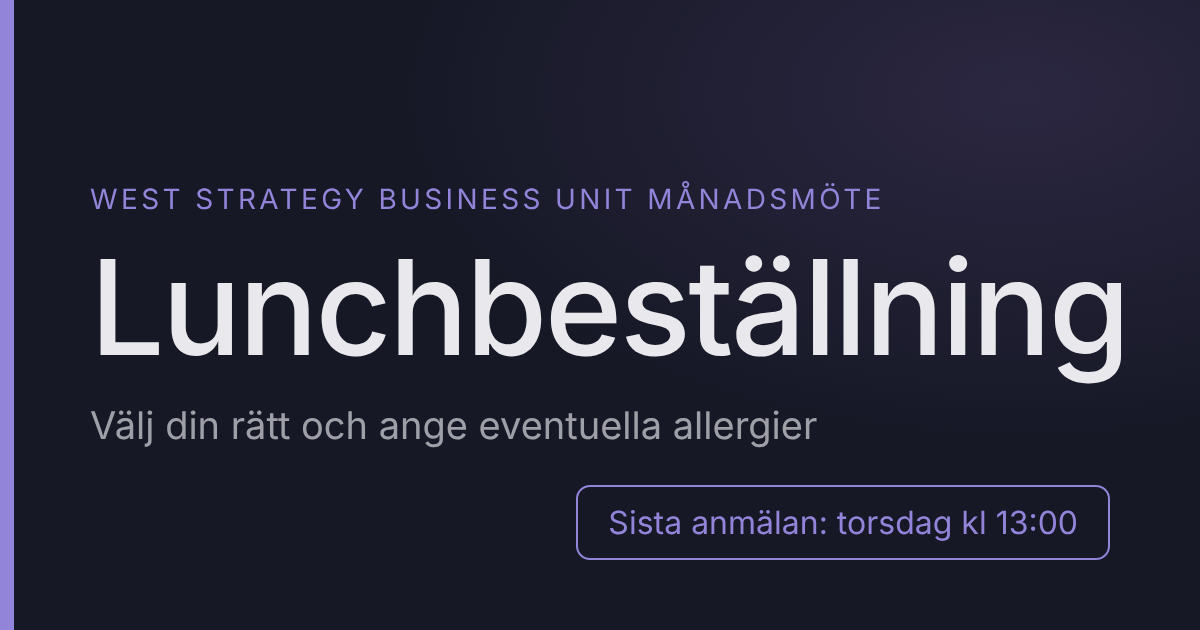
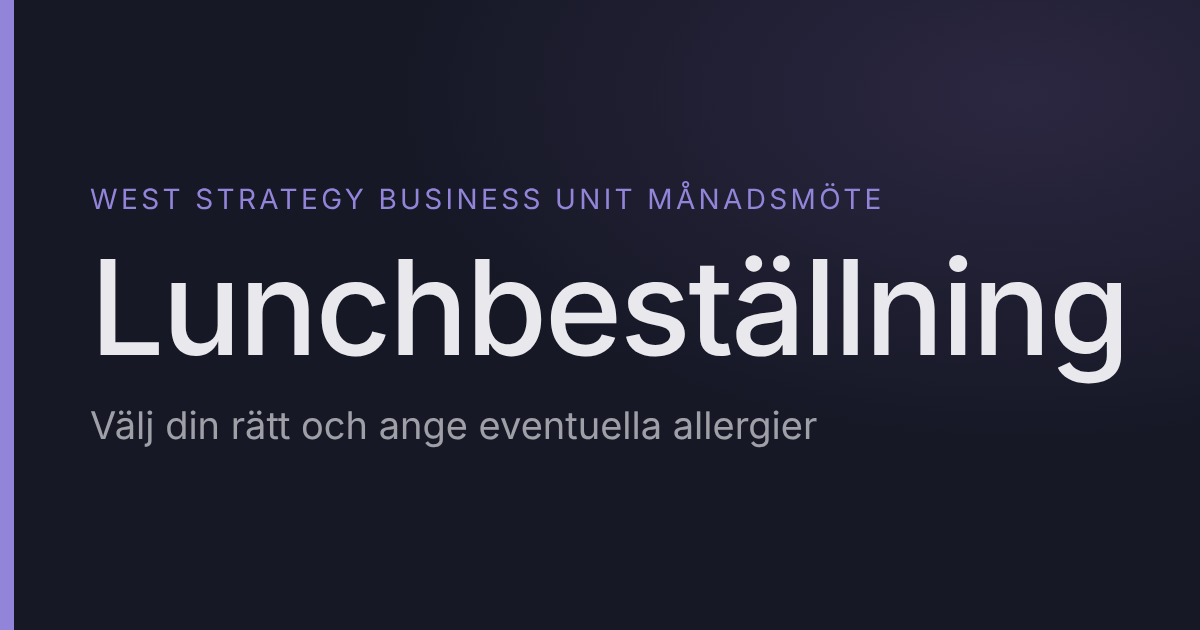
Drop the deadline from the link preview image and descriptions
Previews get cached by chat apps, so a static deadline there can go
stale; the image and descriptions no longer mention it.

Claude-Session: https://claude.ai/code/session_016CbLU2RTBJo1CC5LtsipkA

Changed region(s): [[0.4933, 0.8143, 0.925, 0.9048], [0.4933, 0.754, 0.925, 0.7841]]

diff --git a/index.html b/index.html
@@ -4,18 +4,18 @@
 <meta charset="utf-8">
 <meta name="viewport" content="width=device-width, initial-scale=1">
 <title>Lunchbeställning – West Strategy BU</title>
-<meta name="description" content="Välj din rätt och ange eventuella allergier. Sista anmälan torsdag kl 13:00.">
+<meta name="description" content="Välj din rätt och ange eventuella allergier..">
 <meta property="og:type" content="website">
 <meta property="og:site_name" content="Lunchbeställning">
 <meta property="og:title" content="Lunchbeställning – West Strategy Business Unit månadsmöte">
-<meta property="og:description" content="Välj din rätt och ange eventuella allergier. Sista anmälan torsdag kl 13:00.">
+<meta property="og:description" content="Välj din rätt och ange eventuella allergier..">
 <meta property="og:url" content="https://nexerlunchval.vercel.app/">
 <meta property="og:image" content="https://nexerlunchval.vercel.app/og-image.png">
 <meta property="og:image:width" content="1200">
 <meta property="og:image:height" content="630">
 <meta name="twitter:card" content="summary_large_image">
 <meta name="twitter:title" content="Lunchbeställning – West Strategy Business Unit månadsmöte">
-<meta name="twitter:description" content="Välj din rätt och ange eventuella allergier. Sista anmälan torsdag kl 13:00.">
+<meta name="twitter:description" content="Välj din rätt och ange eventuella allergier..">
 <meta name="twitter:image" content="https://nexerlunchval.vercel.app/og-image.png">
 <link rel="preconnect" href="https://fonts.gstatic.com" crossorigin>
 <link rel="stylesheet" href="styles.css">
